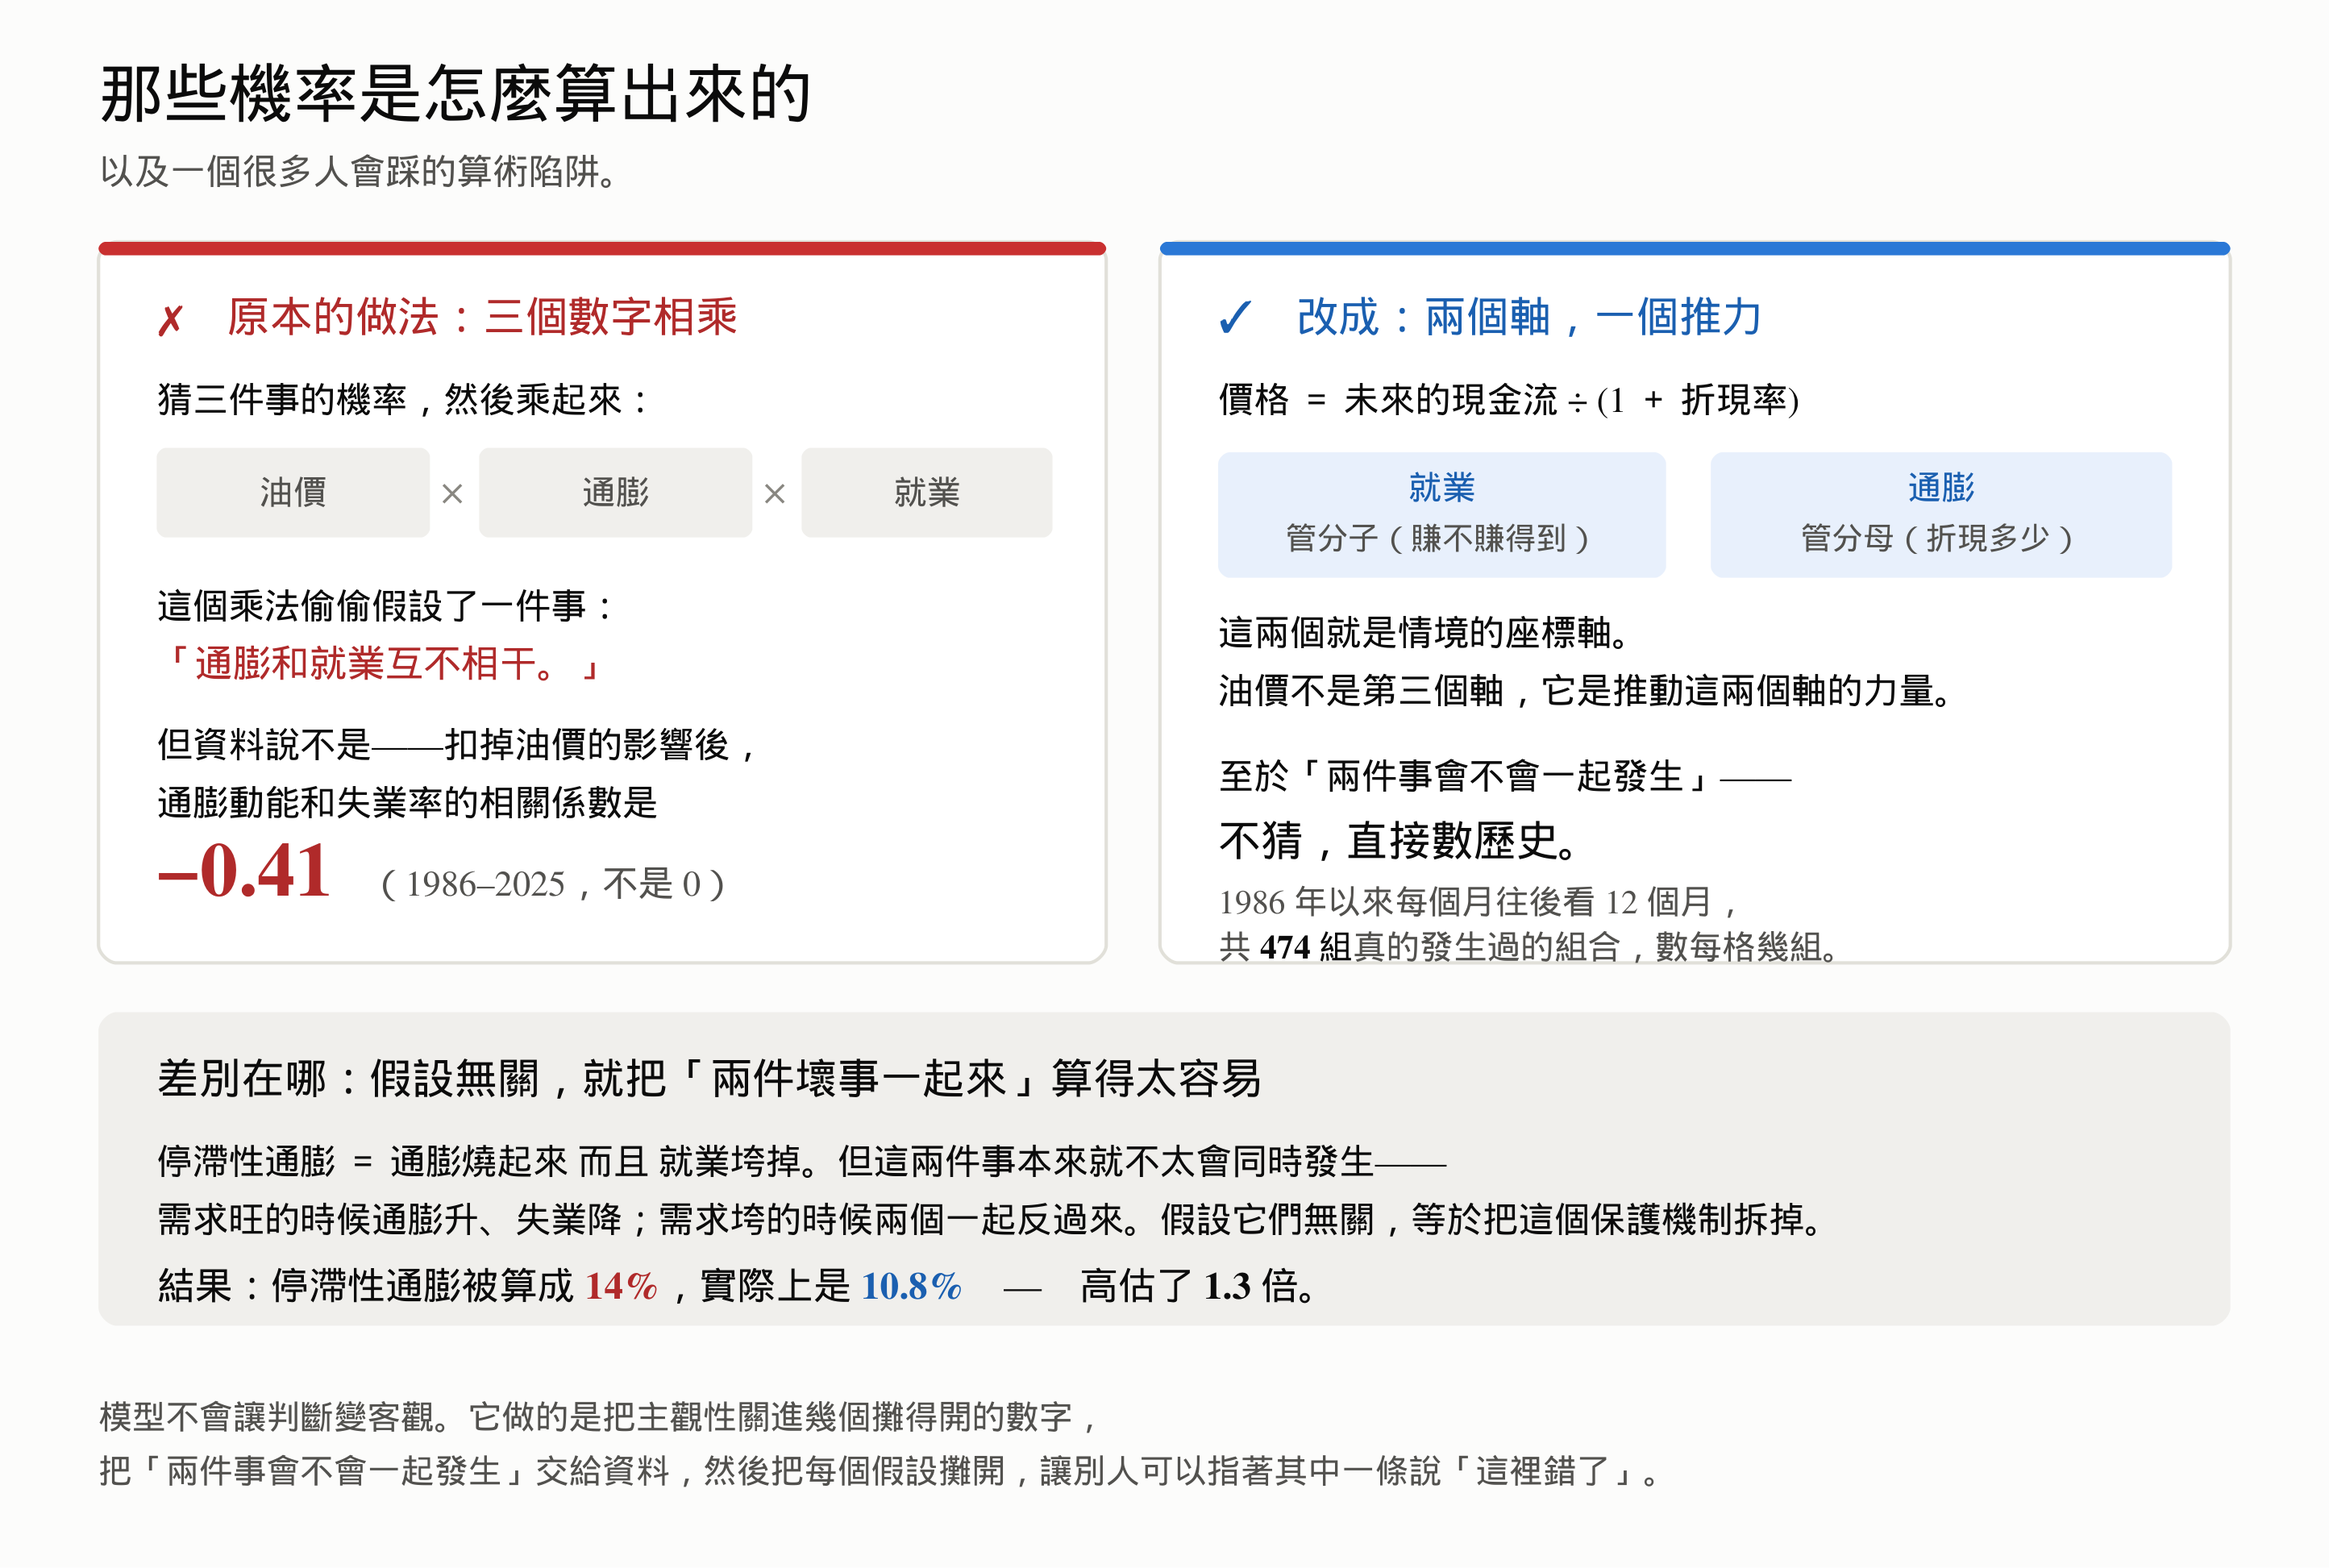
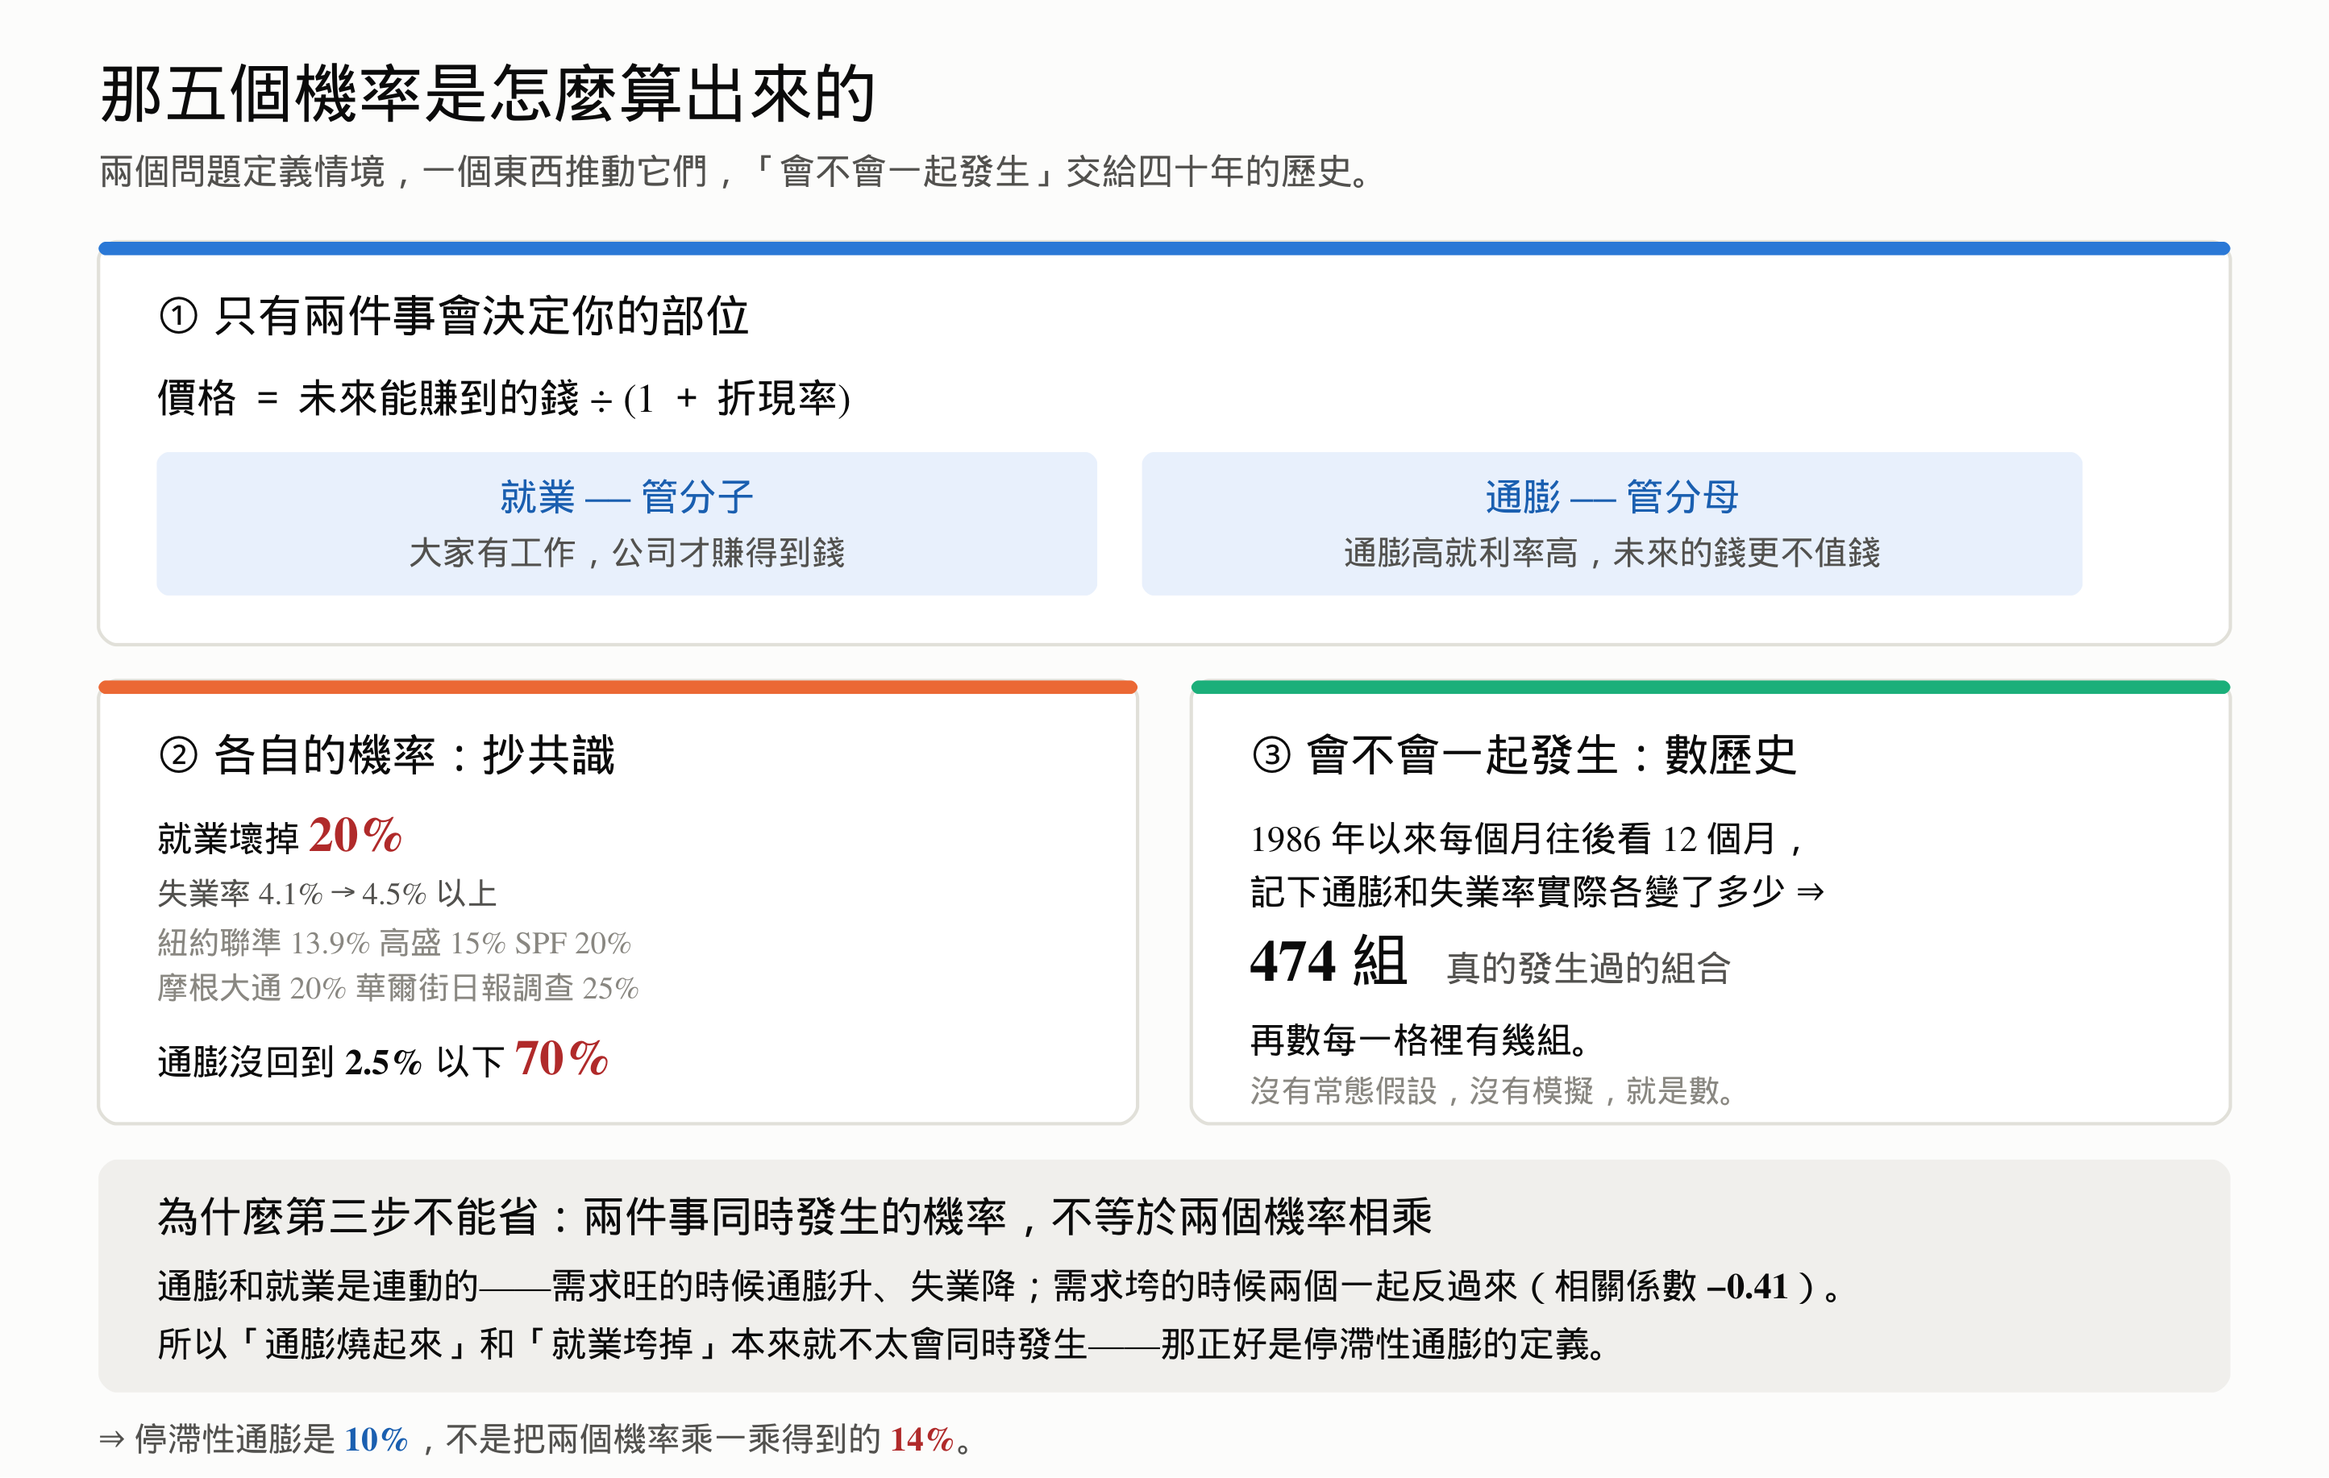
docs(viral): rewrite the scenario section to stand on its own
Per Jake: the reader has never seen an earlier version and does not care that
one existed. The section opened by saying last week's arithmetic was wrong and
spent three paragraphs on the correction, which is self-narration in the same
way the abandoned version A was.

Rewritten so it explains the thing once, forward: two questions decide the
scenarios, here is why those two (price = cash flows / (1+r), employment is the
numerator and inflation the denominator), here is where each probability comes
from (consensus for the marginals, 474 historical windows for whether they
co-occur), and here is the one number worth arguing about (which inflation gauge
- 34% on core CPI vs 89% on core PCE).

fig8 redrawn the same way: three steps forward, no wrong-way/right-way panel.
Header trimmed to what is actually needed to publish; the revision trail stays
in appendices E and F where it belongs.

Body 3,700 -> 3,630 characters.

Claude-Session: https://claude.ai/code/session_01EBWfMBEwtbQVDLNYZ9kjgJ

diff --git a/skills/viralcontent/drafts/2026-09-15-fomc-boj-final.md b/skills/viralcontent/drafts/2026-09-15-fomc-boj-final.md
@@ -8,17 +8,13 @@ last_updated: 2026-09-15
 
 # 摸魚記定稿：升息在對付的東西，它其實碰不太到
 
-> **這份取代 v1 與 v2。** 依 Jake 回饋：v2 的版本 A「自言自語，別人看不出在幹嘛」已廢棄；本稿以版本 B 為骨架，
-> 並換上一條更強的證據鏈——**通膨降下來的那一半和降不下來的那一半，對利率的反應完全不同**。
+> **這是定稿，直接用這一份。**
 > **合規自檢**：無個股、無代碼、無買賣建議、無明牌 ✅｜**雙軌自檢**：匿名用，不連實名帳號 ✅｜**無自我敘事** ✅
-> **配圖**：`figures/` 下，插入點已標。建議用 7 張。**圖 5 與圖 8 已於 09-15 第四次改版全面重畫，圖 6 亦已重繪——一律用新版。**
-> 圖 5 現在由 `figures/make_fig5.py` **直接從模型產生**（跑它會重寫 SVG），所以圖上的機率不可能和模型脫節。
-
-**主文約 3,700 字；短影音版約 360 字。**
-> 🔴 **2026-09-15 第二次改版**：住房的因果機制被查證推翻並重寫（見附錄 E），圖 5、圖 6 已重繪。
-> 🔵 **2026-09-15 第三次改版**：把模型的運作方式寫成獨立一段。
-> 🟣 **2026-09-15 第四次改版（本次，最大的一次）**：**模型的統計基礎被推翻並重建**——「三個數字相乘」不是鏈鎖法則，它偷偷假設了通膨與就業條件獨立，而資料說相關係數是 **−0.41**。情境改為「兩個軸（通膨／就業）＋ 一個推力（油價）」，相依結構改用 **1986–2025 的經驗 copula**。
-> **停滯性通膨從 24% 降到 10%**，並新增「再加速」一格。圖 5 全面重畫（只留情境／機率／資產），圖 8 重畫成「錯法 vs 正確做法」對照。完整軌跡見**附錄 F**。
+> **配圖 7 張**（`figures/`，插入點已標在文中）：圖 6 → 圖 4 → 圖 2 → 圖 7 → 圖 5 → 圖 8 → 圖 3。
+> 圖 5 由 `figures/make_fig5.py` **直接從模型產生**，所以圖上的機率不可能和模型脫節。
+>
+> **主文約 3,600 字；短影音版約 360 字。**
+> 修訂軌跡（不發布，只給自己看）：住房機制的推翻見**附錄 E**，情境模型的統計重建見**附錄 F**。
 
 ---
 
@@ -184,70 +180,70 @@ last_updated: 2026-09-15
 
 **［插入圖 5：五種走法，誰會受益、誰會受傷］**
 
-接下來六到十二個月，我把它切成五格。
+接下來六到十二個月，**其實只有兩件事會決定你手上的東西值多少**：
 
-**切法跟上週不一樣，因為上週那個算法是錯的。** 那個錯很值得講一下，因為它是這類推估最常見的陷阱。
+**通膨有沒有回到目標，還有就業有沒有壞掉。**
 
----
-
-### 一個很多人會踩的算術陷阱
-
-**［插入圖 8：那些機率是怎麼算出來的］**
-
-原本的做法是：猜三件事的機率——油價、通膨、就業——**然後把三個數字乘起來**。
-
-看起來很合理。**但那個乘法偷偷假設了一件事：通膨和就業互不相干。**
-
-去翻資料，這個假設不成立：
-
-**把油價的影響扣掉之後，「通膨動能的變化」和「失業率的變化」相關係數是 −0.41。** 不是 0。
-（1986 到 2025，四十年；換成 1990 後、1998 後重算，都還是 −0.41 上下。）
-
-負號的意思是：**通膨和就業健康是同方向的。** 需求旺的時候，通膨升、失業降；需求垮的時候，兩個一起反過來。
-
-**換句話說：「通膨燒起來」和「就業垮掉」本來就不太會同時發生。**
-
-而那正好就是停滯性通膨的定義。**假設兩者無關，等於把這個保護機制拆掉**——算出來的停滯性通膨，會是實際的 1.3 倍。
+這兩個問題交叉起來，就是圖上那五種走法。
 
 ---
 
-### 新的算法：兩個軸，一個推力
+### 為什麼是這兩個問題
 
-回到最根本那條式子：**價格 = 未來的現金流 ÷ (1 + 折現率)**。
+因為股價說到底就是一條式子：
 
-- **就業決定分子**——大家有沒有工作，公司才賺得到錢。
-- **通膨決定分母**——通膨高就利率高，折現率跟著高。
+**價格 ＝ 未來能賺到的錢 ÷ (1 ＋ 折現率)**
 
-**一個管分子，一個管分母，加起來這條式子就解釋完了。所以情境就用這兩個軸來切。**
+- **就業決定分子。** 大家有工作，公司才賺得到錢。
+- **通膨決定分母。** 通膨高，利率就高，未來的錢折算到現在就更不值錢。
 
-那油價呢？**油價不是第三個軸，它是同時推動那兩個軸的力量。** 把它當成第三個平行的變數，是原本那個算法最根本的設計問題。
+一個管分子，一個管分母。**這條式子就只有這兩塊，所以情境也只需要這兩個軸。**
 
-至於「兩件事會不會一起發生」——**我不猜，直接數歷史**：1986 年以來每一個月往後看十二個月，記下通膨動能和失業率實際各變了多少，得到 **474 組真的發生過的組合**，再數每一格裡有幾組。
-
-**沒有常態分布假設，沒有模擬，就是數。**
+那油價呢？油價當然重要，但它**不是第三個問題**——它是靠推高通膨、壓低成長，**從那兩個軸間接起作用**的。所以在這張圖裡，油價是推力，不是座標。
 
 ---
 
-### 那該先盯哪個數字？
+### 那五個機率怎麼來的
 
-上週我說「先看就業」。**那個排序本身就建立在錯的結構上**——通膨和就業是座標軸，油價是推力，**三個東西不對等，排序它們沒有意義。**
+**［插入圖 8：那五個機率是怎麼算出來的］**
 
-真正該吵的是另一件事，而且它現在很誇張：
+拆成兩半：**各自發生的機率**，和**會不會一起發生**。
 
-**量通膨的兩把尺，差了 0.9 個百分點，是 1985 年以來最大。**
+**各自的機率，我抄共識：**
 
-- 用**核心 CPI** 量，現在是 **2.57%**（六個月年化）。歷史上從這個位置出發，一年後還在 2.5% 以上的機率只有 **34%**。
+- **就業壞掉**（失業率從 4.1% 升到 4.5% 以上）：**20%**。這是紐約聯準會殖利率曲線 13.9%、高盛 15%、費城聯準專業預測者調查 20%、摩根大通 20%、華爾街日報調查 25% 的中間帶。
+- **通膨沒回到 2.5% 以下**：**70%**。這個數字下一段單獨講，因為它是整張圖最有爭議的地方。
+
+**會不會一起發生，我不猜，直接數歷史：**
+
+1986 年以來，每個月往後看十二個月，記下通膨動能和失業率**實際**各變了多少，得到 **474 組真的發生過的組合**，然後數每一格裡有幾組。
+
+為什麼要這樣做？因為**兩件事同時發生的機率，不等於兩個機率相乘。**
+
+通膨和就業是連動的：需求旺的時候通膨升、失業降；需求垮的時候兩個一起反過來。四十年資料算出來的相關係數是 **−0.41**。
+
+所以「通膨燒起來」和「就業垮掉」**本來就不太會同時發生**——而那正好就是停滯性通膨的定義。
+
+**這就是為什麼它是 10%，而不是把兩個機率乘一乘得到的 14%。**
+
+---
+
+### 整張圖最該吵的地方：通膨要用哪把尺量
+
+**量通膨有兩把尺，現在差了 0.9 個百分點——1985 年以來最大。**
+
+- 用**核心 CPI** 量，現在是 **2.57%**。歷史上從這個位置出發，一年後還在 2.5% 以上的機率只有 **34%**。
 - 用**核心 PCE** 量，現在是 **3.46%**。同樣的算法，**89%**。
 
 **同一個問題，換一把尺，答案從 34% 跳到 89%。**
 
-**聯準會盯的是 PCE。** 所以這不是學術問題，這就是接下來升不升息的分水嶺。
+**而聯準會盯的是 PCE。** 所以這不是學術爭論，這就是接下來升不升息的分水嶺。
 
-我取的是偏 PCE 那一側（70%）。**你要是認為該用 CPI 那把尺，整張圖就會往「軟著陸」移——這是可以吵的，而且應該吵的就是這裡，不是油價。**
+我取 70%，偏 PCE 那一側。**你要是認為該用 CPI 那把尺，整張圖就會往「軟著陸」移。這是可以吵的，而且該吵的就是這裡。**
 
 ---
 
-### 回到那張圖
+### 怎麼讀那張圖
 
 不是看機率，是**直著看每一欄**：
 

diff --git a/topics/technology/mac-manual-homework.md b/topics/technology/mac-manual-homework.md
@@ -23,6 +23,28 @@ last_updated: 2026-07-06
 
 ## 🔴 待辦（依急迫度）
 
+### 🆕 2026-09-15 第三批（情境模型重建 session 產生）
+
+**背景**：情境機率模型因統計方法錯誤已重建（`projects/macro-scenarios/`）。以下三項會影響模型參數，但**不影響已成立的核心結論**（條件獨立假設被推翻這件事是自算的，不依賴外部來源）。
+
+- [ ] **Campbell-Pflueger-Viceira (2020, JPE 128(8))** 與 **NBER w34323** 中，供給／需求衝擊與股債聯動的**符號**。
+      ⚠ 研究員回報：搜尋擷取的措辭與 JPE 版本、AQR 推導**方向相反**（疑為殖利率／價格混淆）。
+      **這一項是三項裡唯一可能推翻論述的**——若符號相反，`README.md` 裡「−0.406 代表需求主導」的解讀要重寫。
+- [ ] **Neville et al. (2021, JPM 47(8))** 與 **Baltussen et al. (2023, FAJ 79(3))** 的各 regime 報酬表，
+      用來檢查圖 5 資產欄的方向。目前那五欄是**從折現式推出的判斷**，不是回測——
+      因為文獻上**不存在乾淨的「成長×通膨」2×2 資產報酬矩陣**（二維交叉後樣本不足），這點本身已查證。
+- [ ] **油價選擇權隱含機率**（Brent 未來 6–12 個月破 $115）與 **CPI cap/floor 隱含通膨機率**。
+      取到就能把模型裡「油價三態」從判斷換成市場定價。CME／Barchart 需即時頁、FRED OVXCLS 403、Minneapolis Fed 頁被擋。
+
+**本輪新增的被擋站點**（`github.com` 與 `raw.githubusercontent.com` 是唯二可達的）：
+nber.org・frbsf.org・papers.ssrn.com・aqr.com・man.com・robeco.com・msci.com・schroders.com・pgim.com・
+blackrock.com・morningstar.com・bridgewater.com・arxiv.org・imf.org・bis.org・federalreserve.gov・
+fred.stlouisfed.org・api.stlouisfed.org・www.eia.gov・en.wikipedia.org・hbs.edu・campbell.scholars.harvard.edu・
+cpflueger.github.io・thierry-roncalli.com・rba.gov.au・econbrowser.com
+⚠ **WebFetch 本輪對所有網域回 EGRESS_BLOCKED**，外部數字全部只到搜尋摘要層。
+
+---
+
 ### 🆕 2026-09-15 第二批（Jake 三問引發的查證，全部因相關站點被 egress proxy 擋）
 
 - [ ] **Ball & Koh, NBER WP 34113《Market Rents and CPI Shelter Inflation》(2025-08) 全文**，取其**確切落後季數點估計**。
